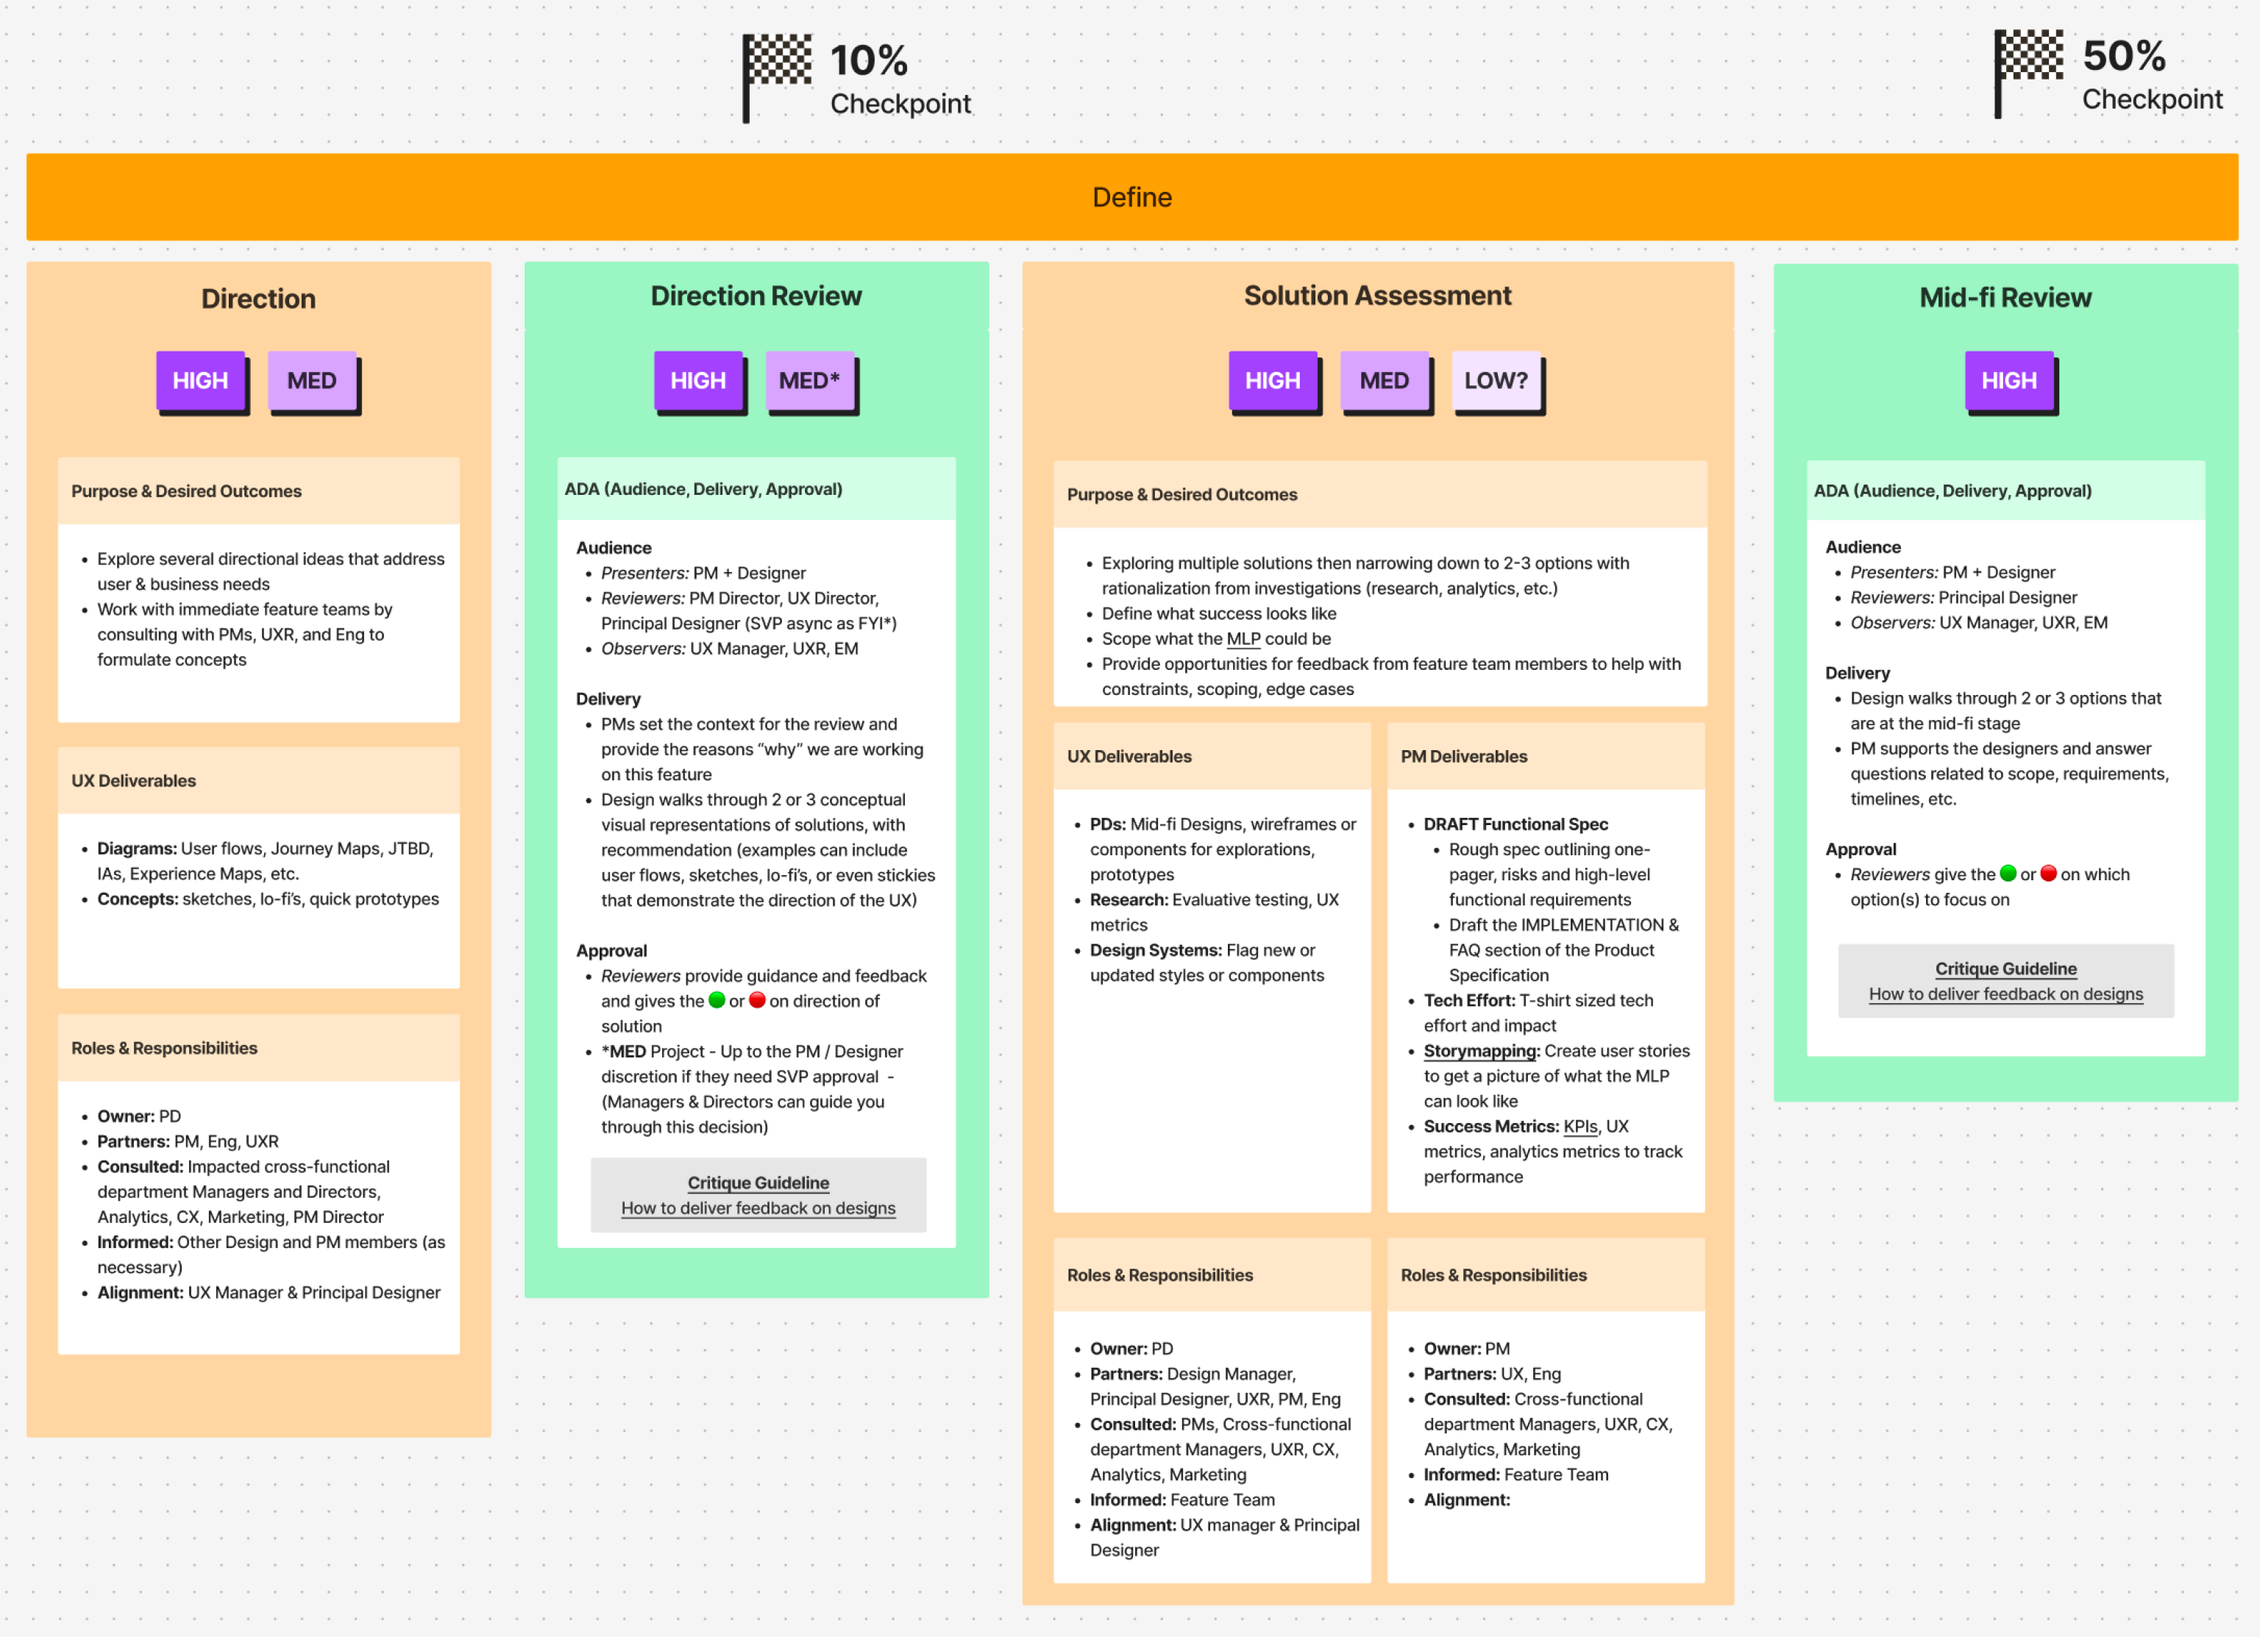
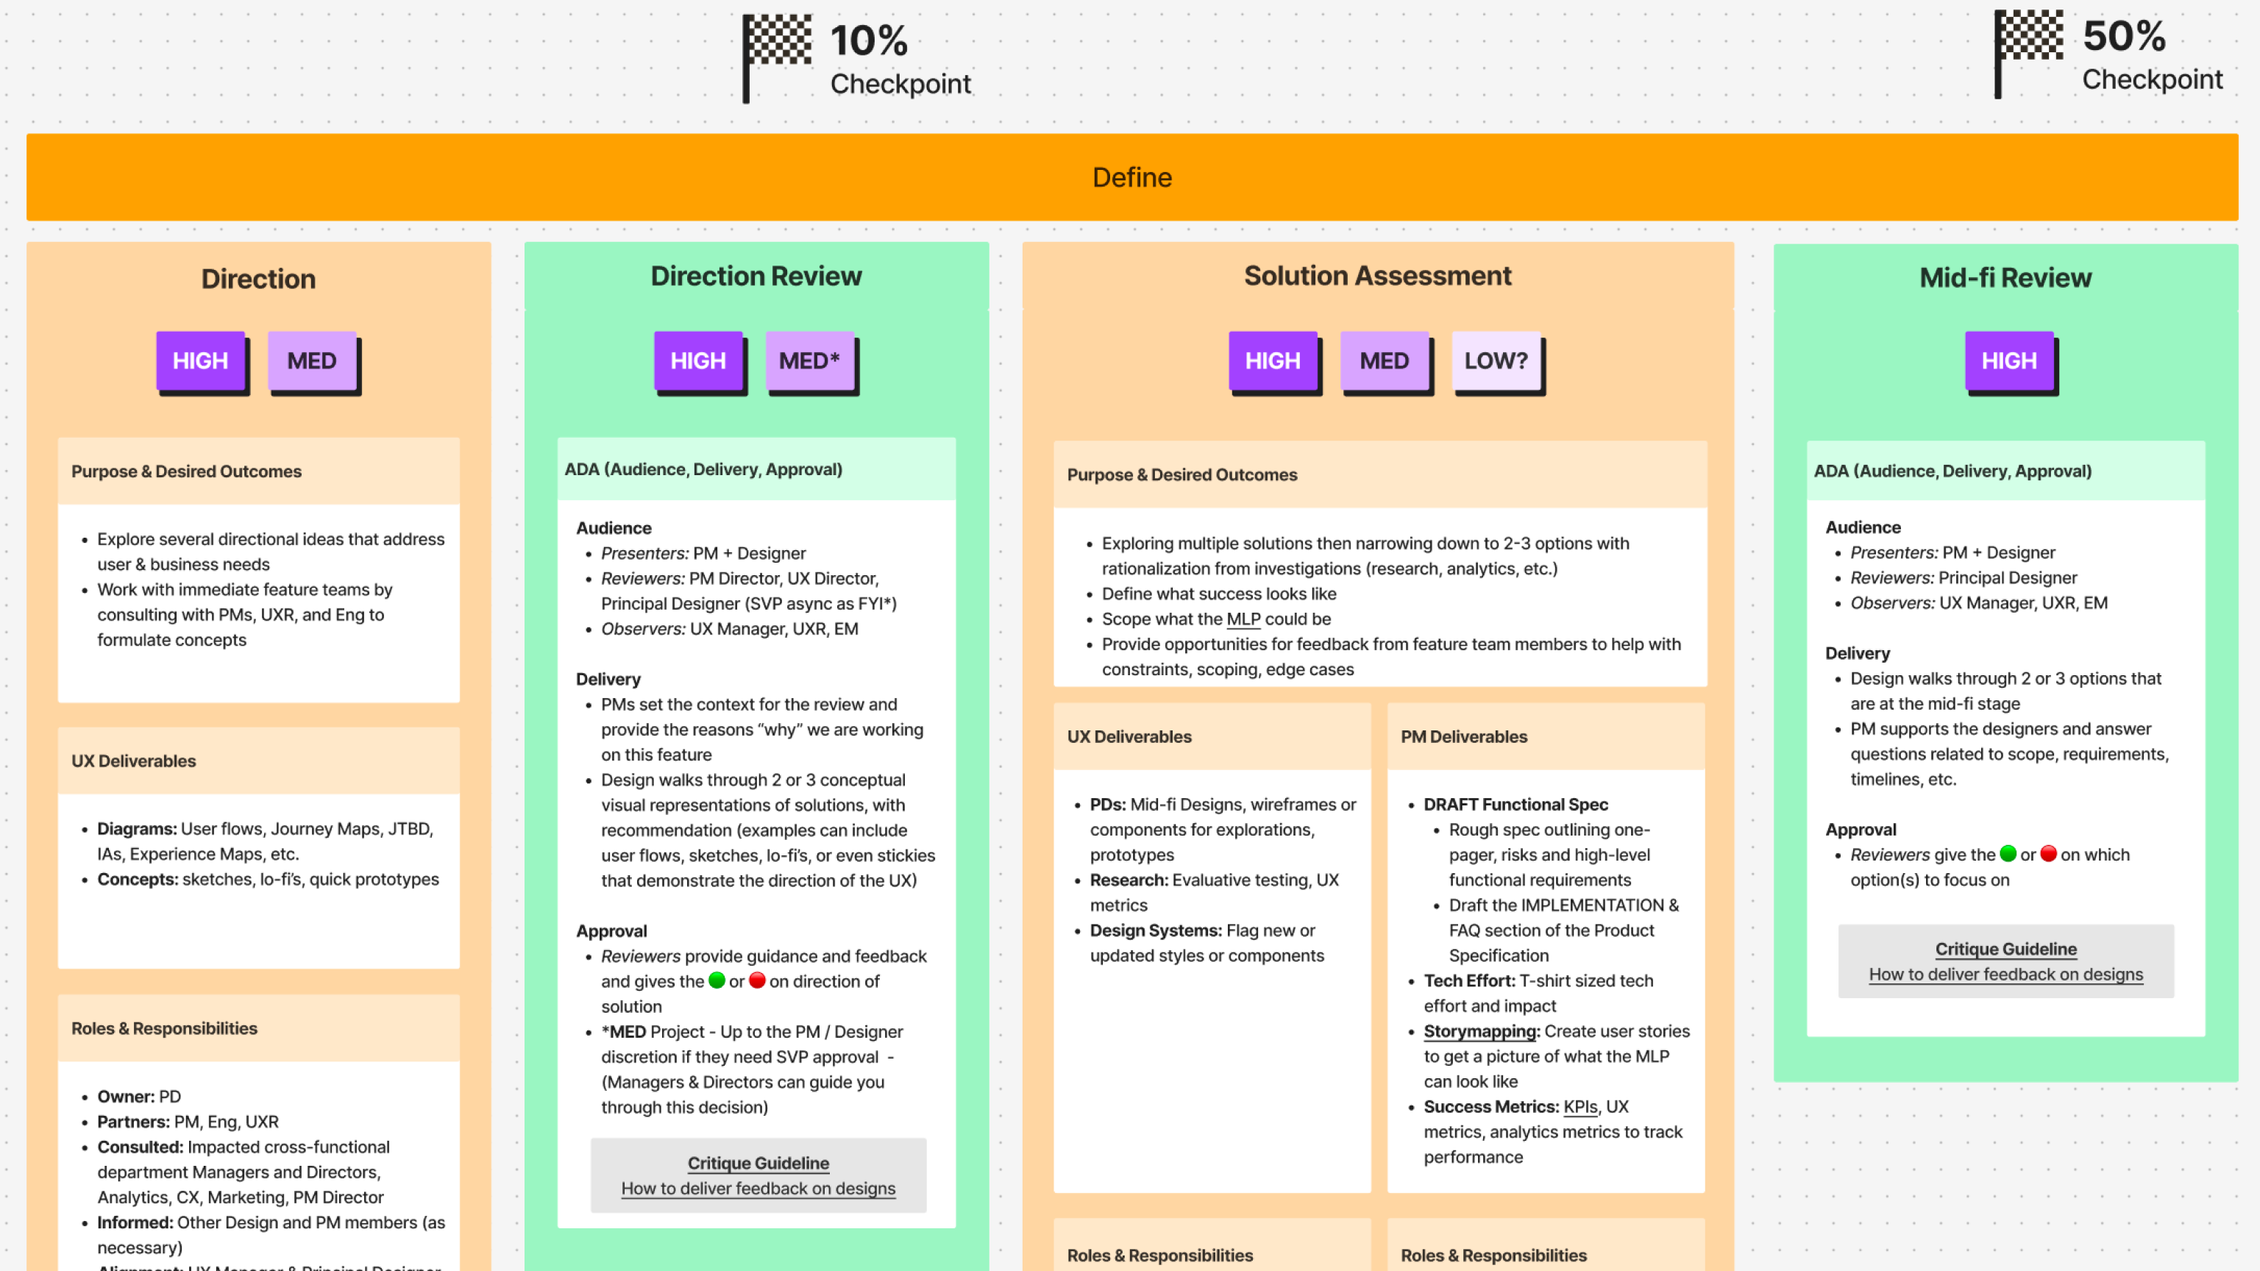
Add spacing around Uniform case study images

diff --git a/index.html b/index.html
@@ -1026,7 +1026,7 @@
         <p class="section-text">We also walked all of the engineering directors through Uniform to gather direct feedback on where the framework wasn't serving the eng org and what it needed to do better. Their input shaped several structural decisions: earlier eng inclusion at the 10% review for feasibility input, async review options for directors who couldn't attend every session, and clearer ownership at the Build phase.</p>
         <div class="section-label" style="margin-top: 40px;">Two versions, driven by what we learned</div>
         <p class="section-text">V1 was an initial attempt at a unified lifecycle, framed as Explore → Define → Execute. It established the RACI model (Owner, Partner, Consulted, Informed, Approver), embedded the 10/50/90 review checkpoints into the lifecycle, and introduced a dashboard for tracking initiative status across business units. But it was still too linear, too heavy for smaller projects, and didn't represent the Build and Learn &amp; Iterate phases in any meaningful way.</p>
-        <div class="img-block">
+        <div class="img-block" style="margin-top: 64px;">
           <div class="img-single" style="background: url('assets/case-studies/uniform/2.png') center/cover no-repeat; height: auto; aspect-ratio: 16/9; box-shadow: 0px 2px 4px 0px rgba(0,0,0,0.15);"></div>
         </div>
         <p class="section-text">V2 restructured the phases around how teams actually work: <strong>Define → Explore → Refine → Build</strong>.</p>
@@ -1044,7 +1044,7 @@
           <li>Built a dashboard for async leadership visibility.</li>
           <li>Determined the overlap in adjacent processes like grooming, release planning, and continuous discovery.</li>
         </ul>
-        <div class="img-block">
+        <div class="img-block" style="margin-top: 64px;">
           <div class="img-single" style="background: url('assets/case-studies/uniform/3.png') center/cover no-repeat; height: auto; aspect-ratio: 16/9; box-shadow: 0px 2px 4px 0px rgba(0,0,0,0.15);"></div>
         </div>
       </div>
